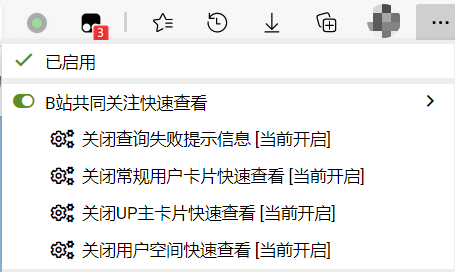
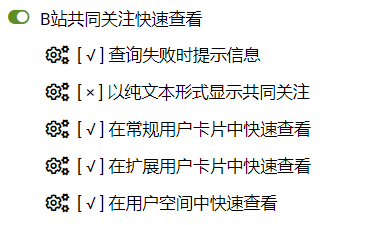
B站共同关注快速查看
* 更新资源

diff --git a/script/BilibiliSameFollowing/README.md b/script/BilibiliSameFollowing/README.md
@@ -11,6 +11,10 @@
 
 ## 截图
 
+* 脚本设置
+
+    ![脚本设置](https://gitee.com/liangjiancang/userscript/raw/master/script/BilibiliSameFollowing/screenshot/脚本设置.png)
+
 * 用户卡片
 
     ![用户卡片](https://gitee.com/liangjiancang/userscript/raw/master/script/BilibiliSameFollowing/screenshot/用户卡片.png)
@@ -18,10 +22,6 @@
 * 用户空间
 
     ![用户空间](https://gitee.com/liangjiancang/userscript/raw/master/script/BilibiliSameFollowing/screenshot/用户空间.png)
-
-* 脚本设置
-
-    ![脚本设置](https://gitee.com/liangjiancang/userscript/raw/master/script/BilibiliSameFollowing/screenshot/脚本设置.png)
 
 *gitee: [BilibiliSameFollowing](https://gitee.com/liangjiancang/userscript/tree/master/script/BilibiliSameFollowing)*
 

diff --git a/script/BilibiliSameFollowing/changelog.md b/script/BilibiliSameFollowing/changelog.md
@@ -2,6 +2,12 @@
 
 本日志只记录用户友好的更新说明，影响不大的问题修复与修改不作记录，具体修改见 [提交记录](https://gitee.com/liangjiancang/userscript/commits/master/script/BilibiliSameFollowing/BilibiliSameFollowing.js)。
 
+## V1.2
+
+1. 脚本：大幅优化用户配置方式，并优化配置项分类及功能。
+2. 代码：不算是重构的重构。
+3. 功能实现：以纯文本形式显示共同关注（共同关注改为默认以可点击形式展示）。
+
 ## V1.1
 
 1. 功能实现：显示/隐藏查询失败的提示信息。
